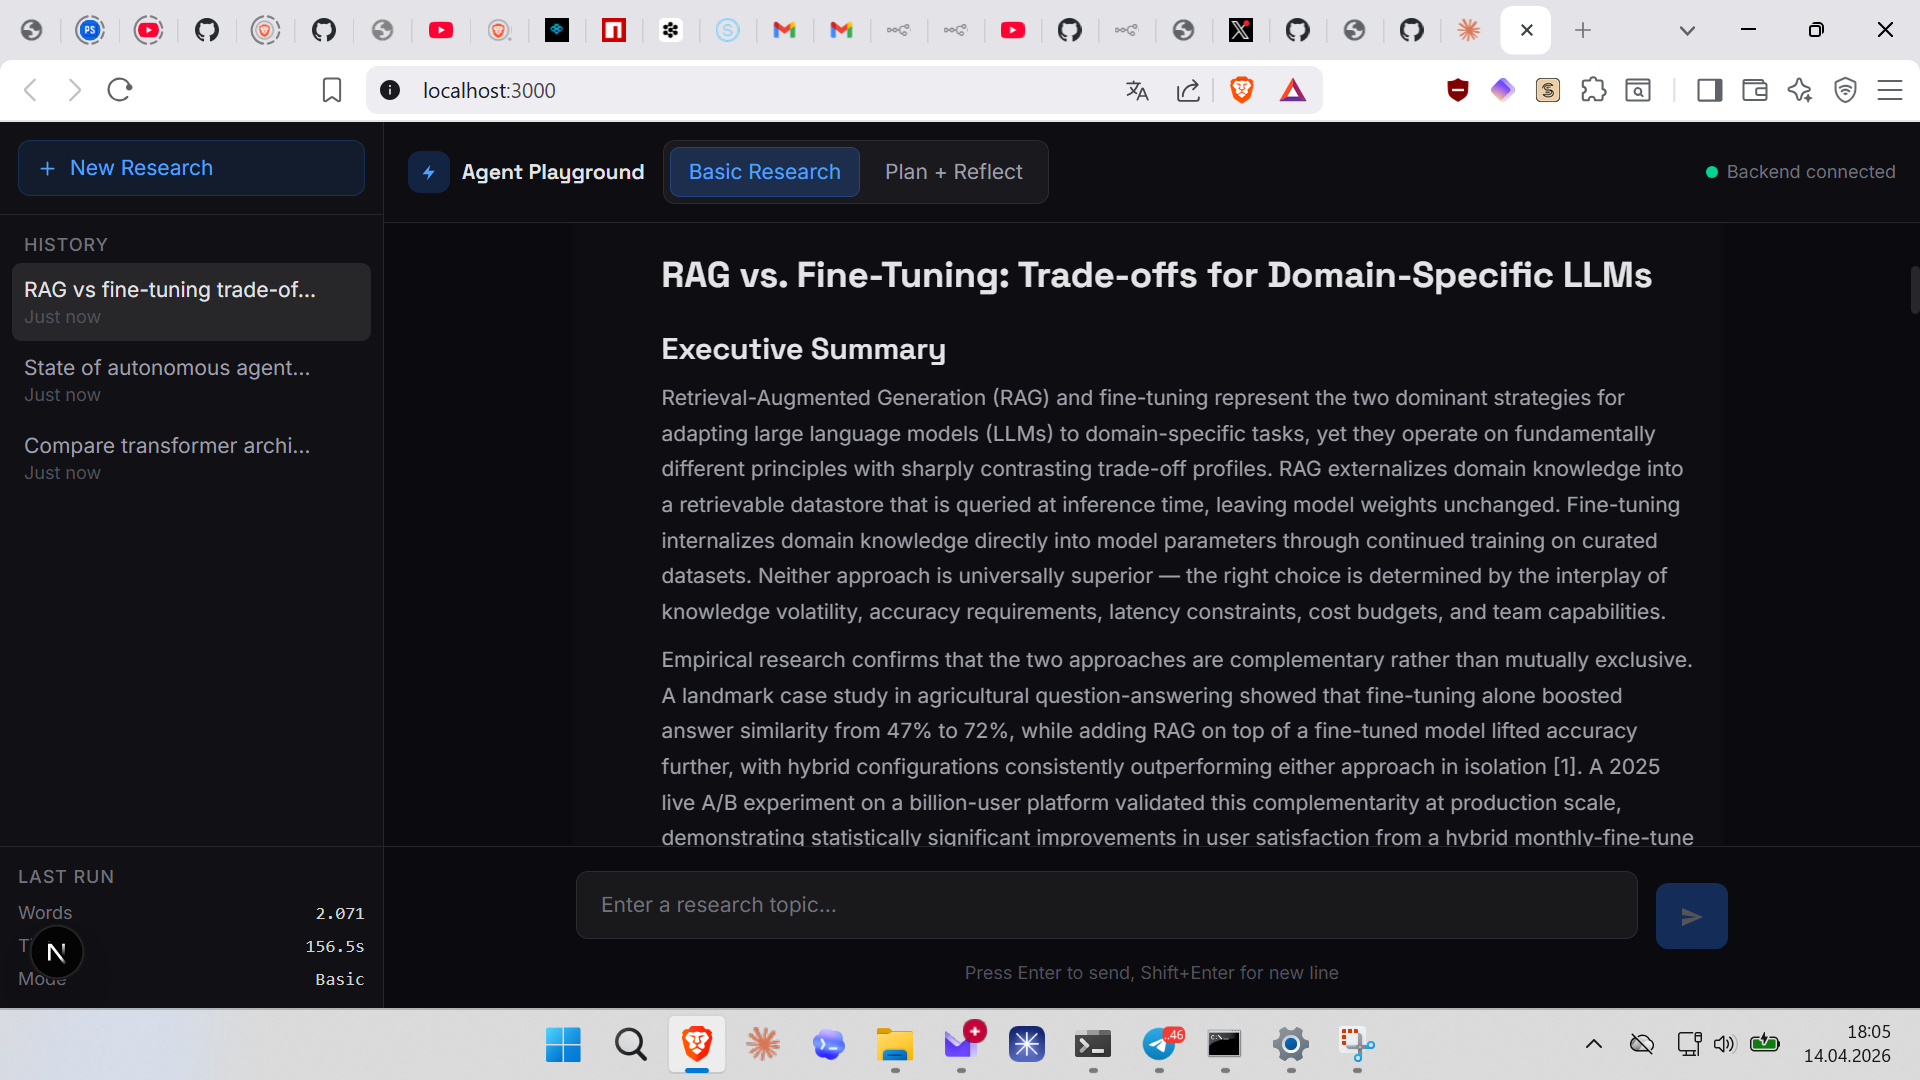
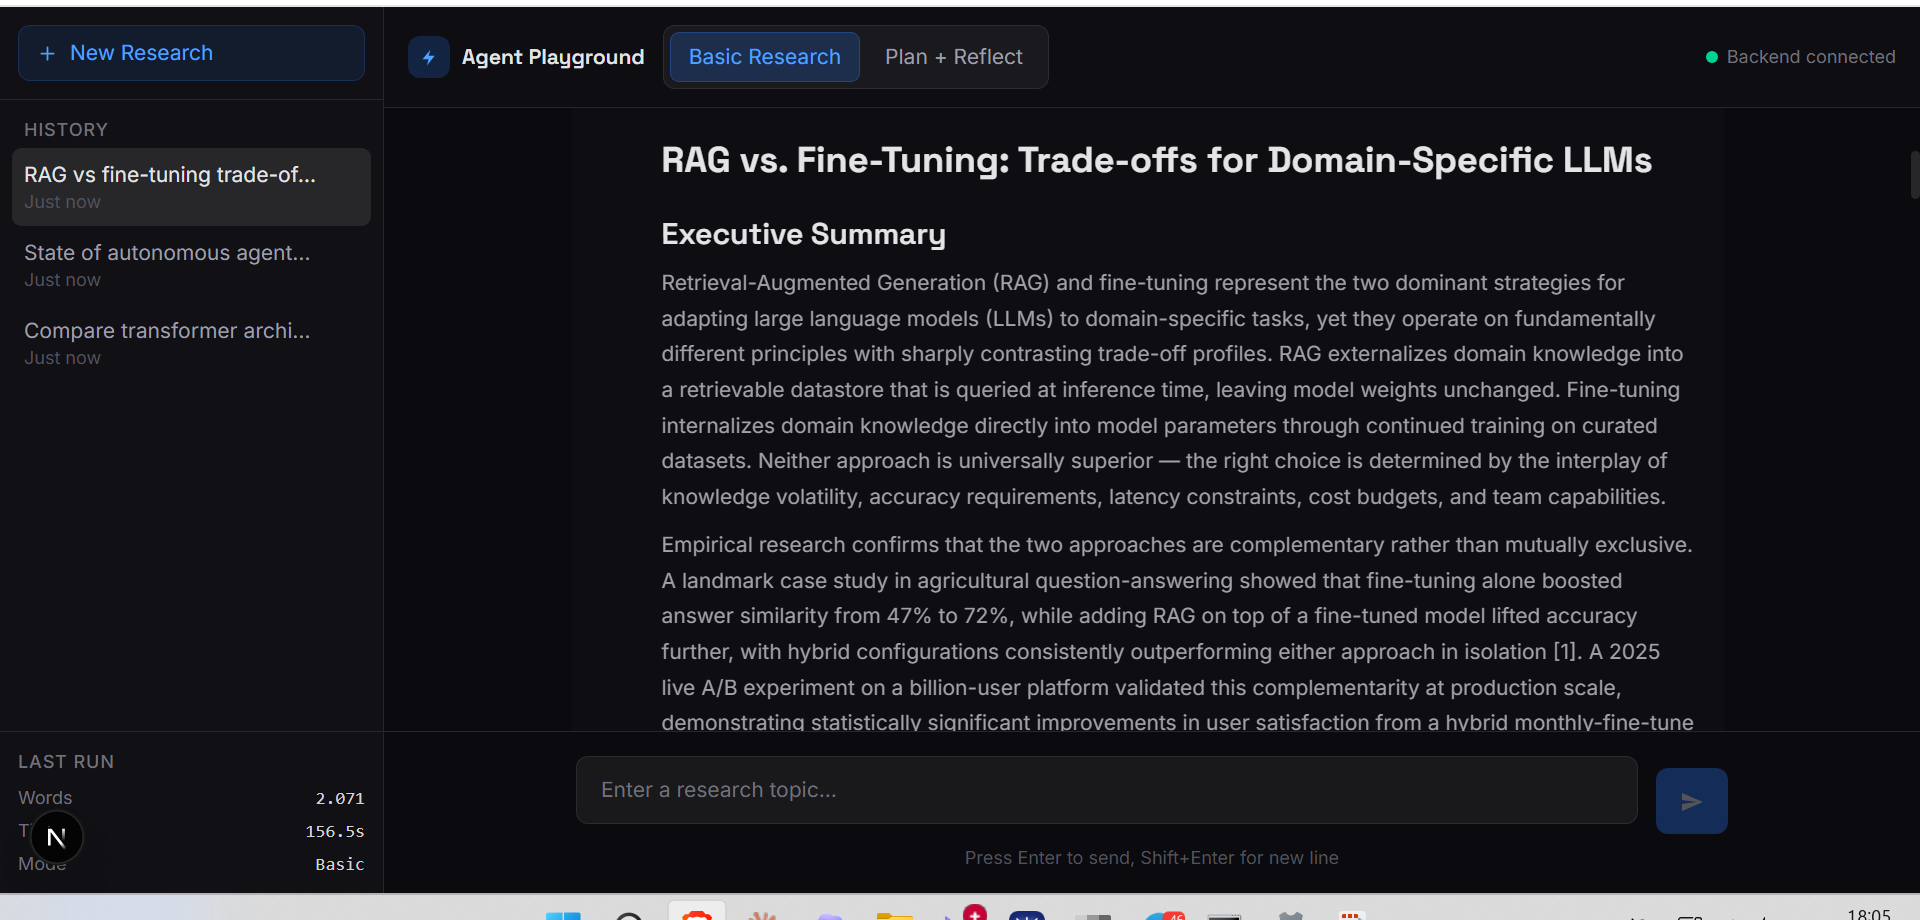
docs: upgrade README to portfolio standard + crop screenshot
- Add badges (Next.js, TypeScript, Tailwind, SSE, MIT)
- Add ToC, architecture mermaid, agent modes table, tech stack table
- Add accessibility features to feature list
- Update fonts to Instrument Sans + Syne (post design-fix)
- Add extracted components to project structure
- Crop screenshot: remove browser chrome + taskbar
- Match quality pattern of voice-agent, speed-to-lead, crewai-bridge READMEs

diff --git a/README.md b/README.md
@@ -1,88 +1,112 @@
 # Agent Playground
 
-Interactive chat UI for AI research agents. Connect to a managed-agent-poc backend and run basic or plan-and-reflect research workflows through a streaming real-time interface with conversation history, markdown rendering, and run metadata.
+[![Next.js](https://img.shields.io/badge/Next.js-14-black.svg)](#tech-stack)
+[![TypeScript](https://img.shields.io/badge/TypeScript-strict-blue.svg)](#tech-stack)
+[![Tailwind](https://img.shields.io/badge/Tailwind_CSS-v4-38bdf8.svg)](#tech-stack)
+[![Status](https://img.shields.io/badge/status-live-brightgreen.svg)](#features)
+[![SSE](https://img.shields.io/badge/streaming-SSE-blue.svg)](#architecture)
+[![License: MIT](https://img.shields.io/badge/License-MIT-yellow.svg)](LICENSE)
+
+**Interactive chat UI for AI research agents.** Connect to a managed-agent-poc backend and run basic or plan-and-reflect research workflows through a streaming real-time interface. Full conversation history, markdown rendering, run metadata, and dual agent modes — all in a responsive dark-theme interface.
 
 ![Agent Playground — RAG vs Fine-Tuning Research](docs/screenshot.png)
 
-## Tech Stack
+## Table of Contents
 
-- **Framework:** Next.js 14 (App Router)
-- **Language:** TypeScript (strict mode)
-- **Styling:** Tailwind CSS v4
-- **Fonts:** Inter + Space Grotesk (Google Fonts)
-- **State:** useReducer + custom hooks
-- **Storage:** localStorage for conversation history
-- **Streaming:** Server-Sent Events (SSE) via ReadableStream API
+- [Architecture](#architecture) — SSE streaming proxy pattern
+- [Features](#features) — dual agents, streaming, markdown, history
+- [Quick Start](#quick-start) — install and run in 3 commands
+- [Agent Modes](#agent-modes) — basic vs plan-and-reflect
+- [Tech Stack](#tech-stack) — Next.js 14, TypeScript, Tailwind v4
+- [Project Structure](#project-structure) — component breakdown
 
 ## Architecture
 
-```
-Browser (React)
-  |
-  |  POST /api/research (SSE stream)
-  v
-Next.js API Route
-  |
-  |  POST /research (JSON)
-  v
-managed-agent-poc (localhost:8000)
+```mermaid
+flowchart LR
+    Browser["Browser\nReact + useReducer"] -->|"POST /api/research\n(SSE stream)"| API["Next.js API Route\nReadableStream"]
+    API -->|"POST /research\n(JSON)"| Backend["managed-agent-poc\nlocalhost:8000"]
+    Backend -->|"Research report"| API
+    API -->|"SSE events:\nstatus · chunk · done · error"| Browser
+    Browser -->|"localStorage"| Storage["Conversation History\ncreate · select · delete"]
 ```
 
-The Next.js API route wraps the synchronous backend response in an SSE stream with progress events, demonstrating real streaming architecture. The frontend consumes events through the Fetch API ReadableStream reader, updating the chat in real-time.
-
-## Running
-
-**Prerequisites:** managed-agent-poc backend running on `http://localhost:8000`
-
-```bash
-# Install dependencies
-npm install
-
-# Development
-npm run dev
-
-# Production build
-npm run build && npm start
-```
-
-The app runs on `http://localhost:3000` by default.
-
-Set `BACKEND_URL` environment variable to override the backend address.
+The Next.js API route wraps the synchronous backend response in an SSE stream with typed progress events (`status`, `chunk`, `done`, `error`). The frontend consumes events through the Fetch API ReadableStream reader, updating the chat in real-time with streaming markdown.
 
 ## Features
 
 - **Dual agent modes:** Basic single-pass research and Plan + Reflect iterative reasoning
 - **SSE streaming:** Real-time progress events and chunked report delivery
-- **Markdown rendering:** Headings, lists, code blocks, links, blockquotes
+- **Markdown rendering:** Headings, lists, code blocks, links, blockquotes (zero-dependency parser)
 - **Conversation history:** Persisted in localStorage with create/select/delete
 - **Run metadata:** Word count, elapsed time, and mode displayed per response
-- **Backend health monitoring:** Automatic polling with status indicator
-- **Responsive design:** Desktop sidebar collapses on mobile
+- **Backend health monitoring:** 30s polling with live status indicator
+- **Responsive layout:** Desktop sidebar collapses to mobile hamburger
 - **Copy reports:** One-click copy of agent output
-- **Dark theme:** #0a0a0f background with Electric Blue accents
-- **Error handling:** Backend offline, timeout, and cancellation states
+- **Dark theme:** `#0a0a0f` background with Electric Blue accents
+- **Error handling:** Backend offline, timeout (300s), and cancellation states
+- **Accessibility:** `aria-live` on message stream, `:focus-visible` outlines, `<main>` landmark, skip-to-content
 
-## File Structure
+## Quick Start
+
+**Prerequisites:** [managed-agent-poc](https://github.com/mj-deving/managed-agents-research) backend running on `http://localhost:8000`
+
+```bash
+# Install
+npm install
+
+# Development
+npm run dev
+
+# Production
+npm run build && npm start
+```
+
+Runs on `http://localhost:3000`. Set `BACKEND_URL` to override the backend address.
+
+## Agent Modes
+
+| Mode | How It Works | Typical Runtime | Output |
+|------|-------------|----------------|--------|
+| **Basic** | Single-pass: query → research → report | 60–90s | ~4K words, 8–12 sources |
+| **Plan + Reflect** | Plan → research → write → review → revise (iterative) | 120–180s | ~8K words, 15–20 sources, higher quality |
+
+## Tech Stack
+
+| Layer | Technology |
+|-------|-----------|
+| **Framework** | Next.js 14 (App Router) |
+| **Language** | TypeScript (strict mode) |
+| **Styling** | Tailwind CSS v4 |
+| **Fonts** | Instrument Sans + Syne (Google Fonts) |
+| **State** | `useReducer` + custom hooks |
+| **Storage** | localStorage for conversation history |
+| **Streaming** | Server-Sent Events via ReadableStream API |
+
+## Project Structure
 
 ```
 app/
-  layout.tsx           Root layout with fonts and metadata
-  page.tsx             Main playground page
-  globals.css          Tailwind + markdown + animation styles
+  layout.tsx              Root layout with fonts and metadata
+  page.tsx                Main playground (111 lines after extraction)
+  globals.css             Tailwind + markdown + animation styles
   api/
-    research/route.ts  SSE streaming proxy to backend
-    health/route.ts    Backend health check endpoint
+    research/route.ts     SSE streaming proxy to backend
+    health/route.ts       Backend health check endpoint
 components/
-  AgentSelector.tsx    Mode toggle (Basic / Plan+Reflect)
-  ChatInput.tsx        Text input with send/cancel
-  ChatMessage.tsx      Message bubble with avatar and metadata
-  MarkdownRenderer.tsx Lightweight markdown-to-HTML converter
-  MetadataSidebar.tsx  History list and run stats
-  ThinkingIndicator.tsx Animated dots during agent processing
+  AgentSelector.tsx       Mode toggle (Basic / Plan+Reflect)
+  ChatInput.tsx           Text input with send/cancel
+  ChatMessage.tsx         Message bubble with avatar and metadata
+  EmptyState.tsx          Welcome screen with suggestion cards
+  Header.tsx              App header with status indicator
+  MarkdownRenderer.tsx    Lightweight markdown-to-HTML converter
+  MetadataSidebar.tsx     History list and run stats
+  StreamingDisplay.tsx    Live streaming content with markdown
+  ThinkingIndicator.tsx   Animated dots during agent processing
 hooks/
-  useResearchAgent.ts  SSE lifecycle, state reducer, localStorage
+  useResearchAgent.ts     SSE lifecycle, state reducer, localStorage
 lib/
-  types.ts             TypeScript type definitions
-  markdown.ts          Zero-dependency markdown parser
-  storage.ts           localStorage wrapper
+  types.ts                TypeScript type definitions
+  markdown.ts             Zero-dependency markdown parser
+  storage.ts              localStorage wrapper
 ```
